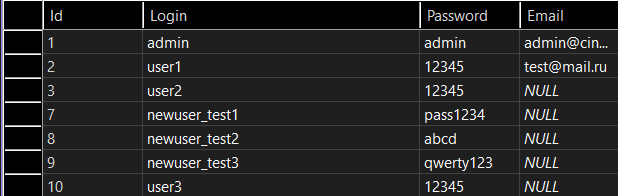
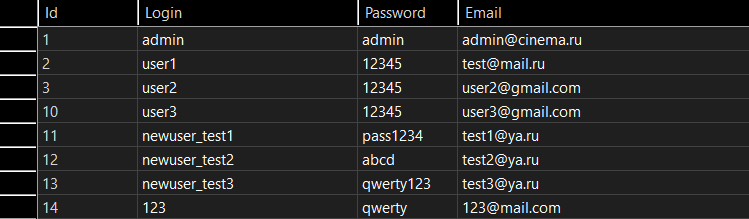
some changes

Changed region(s): [[0.0, 0.0, 1.0, 1.0]]

diff --git a/PR14/RegisterPage.xaml b/PR14/RegisterPage.xaml
@@ -17,7 +17,7 @@
 
             <TextBlock Text="Email:"/>
             <TextBox Name="TxtEmail" Margin="0,5,0,10" Height="25"/>
-
+            
             <TextBlock Text="Пароль:"/>
             <PasswordBox Name="TxtPassword" Margin="0,5,0,10" Height="25"/>
 

diff --git a/UnitTestProject/RegisterTests.cs b/UnitTestProject/RegisterTests.cs
@@ -9,10 +9,10 @@ namespace UnitTestProject
     {
         // Позитивные тесты регистрации
         [TestMethod]
-        [DataRow("newuser_test1", "pass1234", "pass1234")]
-        [DataRow("newuser_test2", "abcd", "abcd")]
-        [DataRow("newuser_test3", "qwerty123", "qwerty123")]
-        public void RegisterTestSuccess(string login, string password, string confirm)
+        [DataRow("newuser_test1", "test1@ya.ru", "pass1234", "pass1234")]
+        [DataRow("newuser_test2", "test2@ya.ru", "abcd", "abcd")]
+        [DataRow("newuser_test3", "test3@ya.ru", "qwerty123", "qwerty123")]
+        public void RegisterTestSuccess(string login, string email, string password, string confirm)
         {
             var page = new RegisterPage();
 
@@ -24,24 +24,25 @@ namespace UnitTestProject
                 db.SaveChanges();
             }
 
-            bool result = page.Register(login, password, confirm);
+            bool result = page.Register(login, email, password, confirm);
             Assert.IsTrue(result,
                 $"Позитивный тест провален: регистрация '{login}' не прошла.");
         }
 
         // Негативные тесты регистрации
         [TestMethod]
-        [DataRow("", "", "")]
-        [DataRow("", "password", "password")]
-        [DataRow("somelogin", "", "")]
-        [DataRow("newuser_1", "password1", "password2")]
-        [DataRow("newuser_2", "ab", "ab")]
-        [DataRow("   ", "   ", "   ")]
-        [DataRow("user1", "newpassword", "newpassword")]
-        public void RegisterTestFail(string login, string password, string confirm)
+        [DataRow("", "", "", "")]
+        [DataRow("", "test@mail.ru", "password", "password")]
+        [DataRow("somelogin", "", "", "")]
+        [DataRow("newuser_1", "invalid-email", "password1", "password2")]
+        [DataRow("newuser_2", "user@domain.com", "ab", "ab")]
+        [DataRow("   ", "   ", "   ", "   ")]
+        [DataRow("user1", "correct@cinema.ru", "newpassword", "newpassword")]
+        [DataRow("fakeadmin", "admin@cinema.ru", "newpassword", "newpassword")] 
+        public void RegisterTestFail(string login, string email, string password, string confirm)
         {
             var page = new RegisterPage();
-            bool result = page.Register(login, password, confirm);
+            bool result = page.Register(login, email, password, confirm);
             Assert.IsFalse(result,
                 $"Негативный тест провален: система зарегистрировала '{login}' когда не должна была.");
         }

diff --git a/PR14/RegisterPage.xaml.cs b/PR14/RegisterPage.xaml.cs
@@ -15,11 +15,12 @@ namespace PR14
         /// Регистрирует нового пользователя.
         /// Возвращает true, если регистрация успешна; иначе false.
         /// </summary>
-        public bool Register(string login, string password, string confirmPassword)
+        public bool Register(string login, string email, string password, string confirmPassword)
         {
             if (string.IsNullOrWhiteSpace(login) ||
                 string.IsNullOrWhiteSpace(password) ||
-                string.IsNullOrWhiteSpace(confirmPassword))
+                string.IsNullOrWhiteSpace(confirmPassword) ||
+                string.IsNullOrWhiteSpace(email))
                 return false;
 
             if (password != confirmPassword)
@@ -28,15 +29,24 @@ namespace PR14
             if (password.Length < 4)
                 return false;
 
+            var emailRegex = new System.Text.RegularExpressions.Regex(
+    @"^[^@\s]+@[^@\s]+\.[^@\s]+$");
+            if (!emailRegex.IsMatch(email))
+                return false;
+
             var db = Manager.GetContext();
 
             if (db.Users.Any(u => u.Login == login))
                 return false;
 
+            if (db.Users.Any(u => u.Email == email))
+                return false;
+
             var newUser = new Users
             {
                 Login = login,
-                Password = password
+                Password = password,
+                Email = email
             };
 
             db.Users.Add(newUser);
@@ -48,6 +58,7 @@ namespace PR14
         {
             bool success = Register(
                 TxtLogin.Text,
+                TxtEmail.Text,
                 TxtPassword.Password,
                 TxtPasswordConfirm.Password);
 
@@ -58,7 +69,7 @@ namespace PR14
             }
             else
             {
-                MessageBox.Show("Ошибка регистрации. Проверьте введённые данные.");
+                MessageBox.Show("Ошибка регистрации. Проверьте корректность введённых данных.");
             }
         }
 
